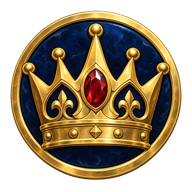
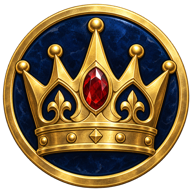
fix: neutralize the badge disc, homogenize their framing
The disc behind every badge cycled through three shades of purple
(locked, unlocked, unlocked-with-artwork); replaced with a neutral
warm gray/charcoal in all states so no badge sits on a violet chip.

Monarch and Prowess carried noticeably more transparent margin than
the rest of the set (fill ratio 0.89 and 0.92 of the canvas, against
0.97-1.00 for the other 14), so they read smaller in the list. Measured
each master's visible bounding box and recentered/rescaled the three
outliers (Monarch, Prowess, and a smaller nudge on Paragon) to match
the pack at ~0.975 fill, then regenerated their 192 px derivatives.

diff --git a/src/styles.css b/src/styles.css
@@ -9630,26 +9630,23 @@ a {
   inset: 0;
 }
 
+/* Neutral on purpose: the disc is a mount for the artwork, not a brand chip. */
 .badge-mark__disc {
-  fill: #f3ecf6;
+  fill: #eeebe9;
 }
 
 .badge-mark[data-unlocked='true'] .badge-mark__disc {
-  fill: #5b2b77;
-}
-
-.badge-mark[data-unlocked='true'][data-artwork='true'] .badge-mark__disc {
-  fill: #2f2733;
+  fill: #2b2a2c;
 }
 
 .badge-mark__track {
   fill: none;
-  stroke: #e4d9e9;
+  stroke: #ded9d4;
   stroke-width: 3;
 }
 
 .badge-mark[data-unlocked='true'] .badge-mark__track {
-  stroke: #5b2b77;
+  stroke: #2b2a2c;
 }
 
 .badge-mark__ring {
@@ -9688,8 +9685,8 @@ a {
 /* Over a silhouette the number needs its own ground to stay readable. */
 .badge-mark[data-artwork='true'][data-unlocked='false'] .badge-mark__value {
   text-shadow:
-    0 0 0.35rem #f3ecf6,
-    0 0 0.15rem #f3ecf6;
+    0 0 0.35rem #eeebe9,
+    0 0 0.15rem #eeebe9;
 }
 
 .season-badges {
